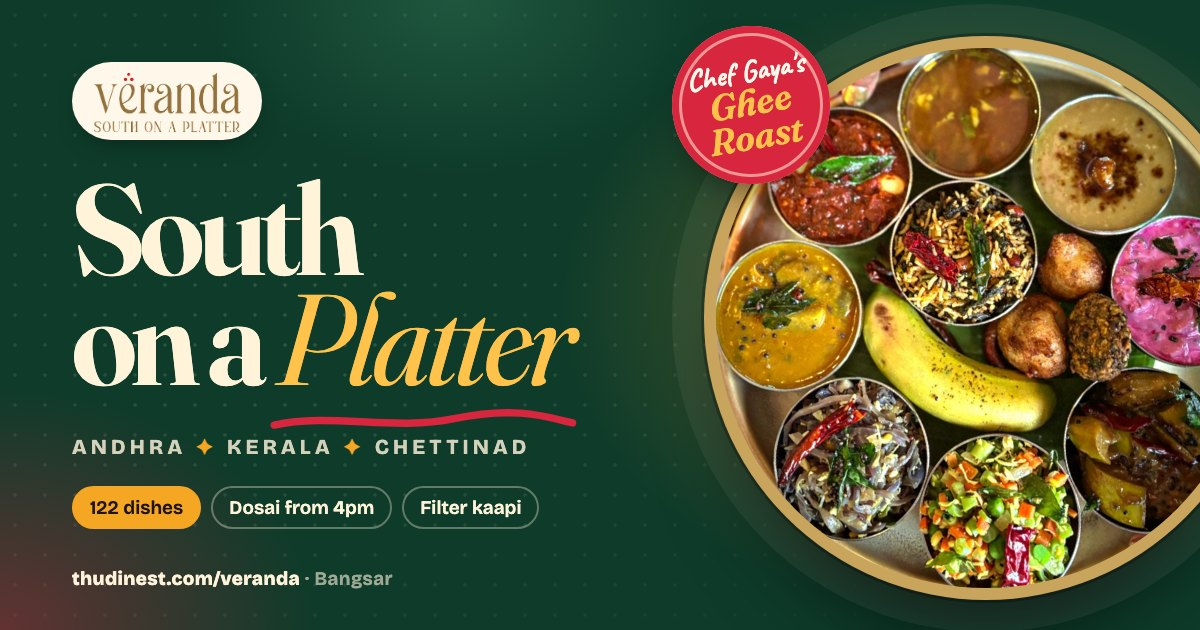
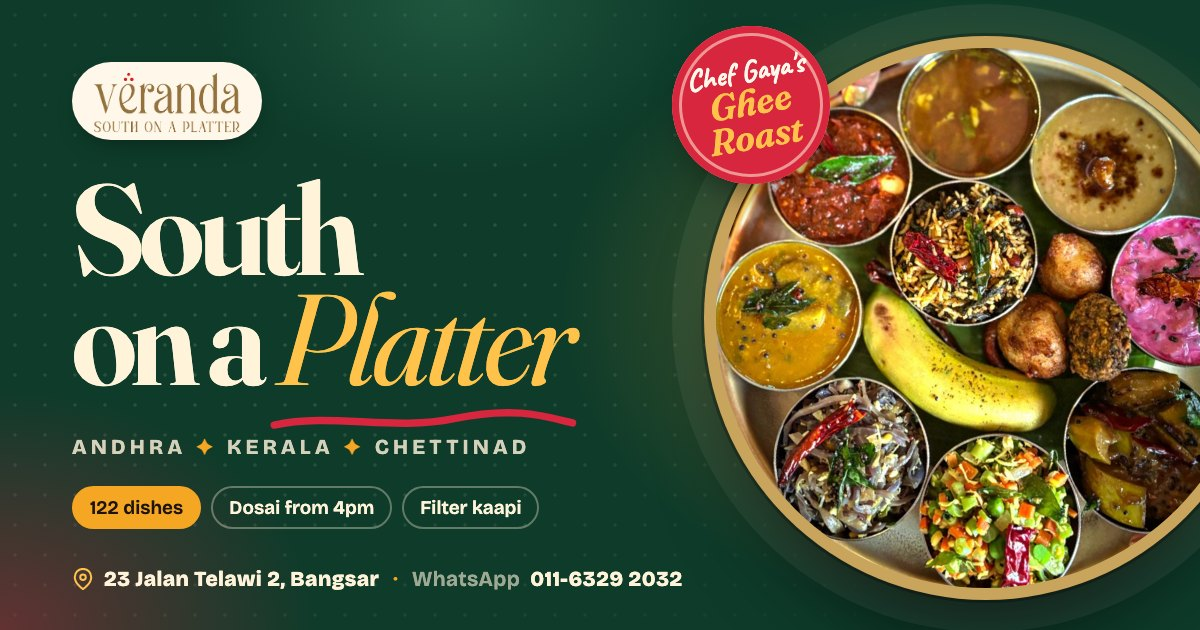
Veranda: add address, hours, WhatsApp and a Visit section with map
- New Visit & book section: address, opening time with a link to live
  hours on Google Maps, WhatsApp 011-6329 2032, Book on WhatsApp and
  Get directions buttons, and an embedded map of the Google listing
- Address, opening time and WhatsApp link under the hero buttons, in
  the footer, and a Visit link in both navs
- Restaurant structured data (address, phone) for search results
- Link-preview text and thumbnail now carry the address and WhatsApp
  number; thumbnail URL versioned (?v=2) so apps refetch it

Changed region(s): [[0.0617, 0.9048, 0.5858, 0.9349]]

diff --git a/veranda/index.html b/veranda/index.html
@@ -4,7 +4,7 @@
 <meta charset="utf-8">
 <meta name="viewport" content="width=device-width, initial-scale=1, viewport-fit=cover">
 <title>Veranda · South on a Platter</title>
-<meta name="description" content="Veranda, Bangsar. Andhra, Kerala and Chettinad cooking on one leaf: chef's specials, wedding style briyani, dosai from 4pm, filter kaapi and the full menu.">
+<meta name="description" content="Veranda, 23 Jalan Telawi 2, Bangsar. Andhra, Kerala and Chettinad cooking on one leaf: chef's specials, wedding style briyani, dosai from 4pm, filter kaapi and the full menu. WhatsApp 011-6329 2032.">
 <meta name="theme-color" content="#0E3B2A">
 <link rel="canonical" href="https://thudinest.com/veranda/">
 
@@ -12,18 +12,43 @@
 <meta property="og:type" content="website">
 <meta property="og:site_name" content="Veranda">
 <meta property="og:title" content="Veranda · South on a Platter">
-<meta property="og:description" content="Andhra, Kerala and Chettinad cooking in Bangsar. Chef's specials, wedding style briyani, dosai from 4pm, filter kaapi and the full 122-dish menu.">
+<meta property="og:description" content="Andhra, Kerala and Chettinad cooking at 23 Jalan Telawi 2, Bangsar. Chef's specials, wedding style briyani, dosai from 4pm and the full 122-dish menu. WhatsApp 011-6329 2032 to book.">
 <meta property="og:url" content="https://thudinest.com/veranda/">
-<meta property="og:image" content="https://thudinest.com/veranda/og-image.jpg">
+<meta property="og:image" content="https://thudinest.com/veranda/og-image.jpg?v=2">
 <meta property="og:image:type" content="image/jpeg">
 <meta property="og:image:width" content="1200">
 <meta property="og:image:height" content="630">
 <meta property="og:image:alt" content="Veranda, South on a Platter: a round South Indian thali on a deep green background">
 <meta name="twitter:card" content="summary_large_image">
 <meta name="twitter:title" content="Veranda · South on a Platter">
-<meta name="twitter:description" content="Andhra, Kerala and Chettinad cooking in Bangsar. Chef's specials, wedding style briyani, dosai from 4pm and filter kaapi.">
-<meta name="twitter:image" content="https://thudinest.com/veranda/og-image.jpg">
+<meta name="twitter:description" content="Andhra, Kerala and Chettinad cooking at 23 Jalan Telawi 2, Bangsar. Chef's specials, wedding style briyani, dosai from 4pm. WhatsApp 011-6329 2032.">
+<meta name="twitter:image" content="https://thudinest.com/veranda/og-image.jpg?v=2">
 <meta name="twitter:image:alt" content="Veranda, South on a Platter: a round South Indian thali on a deep green background">
+
+<!-- lets Google show the address and phone number for this page -->
+<script type="application/ld+json">
+{
+  "@context": "https://schema.org",
+  "@type": "Restaurant",
+  "name": "Veranda",
+  "alternateName": "Veranda, South on a Platter",
+  "url": "https://thudinest.com/veranda/",
+  "image": "https://thudinest.com/veranda/og-image.jpg?v=2",
+  "servesCuisine": ["South Indian", "Andhra", "Kerala", "Chettinad"],
+  "telephone": "+60 11-6329 2032",
+  "acceptsReservations": true,
+  "hasMenu": "https://thudinest.com/veranda/#menu",
+  "address": {
+    "@type": "PostalAddress",
+    "streetAddress": "23 (Ground Floor), Jalan Telawi 2, Bangsar",
+    "postalCode": "59100",
+    "addressLocality": "Kuala Lumpur",
+    "addressRegion": "Wilayah Persekutuan Kuala Lumpur",
+    "addressCountry": "MY"
+  },
+  "sameAs": ["https://www.instagram.com/veranda.bangsar/"]
+}
+</script>
 
 <link rel="icon" type="image/png" href="icon.png">
 <link rel="apple-touch-icon" href="apple-touch-icon.png">
@@ -645,6 +670,41 @@ a{color:inherit}
 .page .no{font-family:var(--f-display); color:var(--chili); margin-right:4px}
 .page .ss{font-size:12.5px; color:var(--ink-3); line-height:1.3; display:block; margin-top:2px}
 
+/* ---------- visit ---------- */
+.sunny{background:var(--turmeric); color:var(--ink); position:relative; isolation:isolate; overflow:hidden}
+.sunny::before{
+  content:""; position:absolute; inset:0; z-index:-1; pointer-events:none;
+  background:radial-gradient(45% 60% at 100% 0%,rgba(255,122,26,.55),transparent 70%),radial-gradient(40% 55% at 0% 100%,rgba(255,215,120,.9),transparent 70%);
+}
+.sunny .kicker,.sunny .h2 em{color:var(--chili-700)}
+.visit-grid{display:grid; grid-template-columns:1fr 1.05fr; gap:clamp(36px,6vw,80px); align-items:center}
+.info{list-style:none; margin:34px 0 0; padding:0; display:grid; gap:12px}
+.info li{
+  display:flex; gap:16px; align-items:flex-start; padding:18px 20px; border-radius:20px;
+  background:rgba(255,248,234,.72); border:1px solid rgba(29,20,13,.08); transition:transform .45s var(--spring), background .3s;
+}
+.info li:hover{transform:translateX(6px); background:var(--cream)}
+.info .ic{flex:none; width:44px; height:44px; border-radius:50%; background:var(--green-800); color:var(--turmeric-2); display:grid; place-items:center}
+.info .ic svg{width:20px; height:20px; fill:none; stroke:currentColor; stroke-width:2; stroke-linecap:round; stroke-linejoin:round}
+.info .lbl{display:block; font-size:12px; letter-spacing:.18em; text-transform:uppercase; font-weight:800; color:var(--chili-700); margin:2px 0 4px}
+.info p{font-size:16.5px; line-height:1.45; font-weight:550}
+.info a{font-weight:750; text-decoration:underline; text-decoration-color:var(--chili); text-decoration-thickness:2px; text-underline-offset:3px}
+.info a:hover{color:var(--chili-700)}
+.info small{display:block; color:var(--ink-2); font-size:13.5px; font-weight:450; margin-top:4px}
+.visit-cta{animation:none}
+.btn-wa{--bg:#128C4B; --fg:#fff; --hover:#0B6E3A}
+.map{
+  position:relative; aspect-ratio:4/3.3; border-radius:28px; overflow:hidden; border:10px solid var(--cream); background:var(--cream-2);
+  box-shadow:0 40px 70px -34px rgba(29,20,13,.6); rotate:1.2deg; transition:rotate .6s var(--spring);
+}
+.map:hover{rotate:0deg}
+.map iframe{position:absolute; inset:0; width:100%; height:100%; border:0}
+.hero-visit{display:flex; flex-wrap:wrap; align-items:center; gap:10px 22px; margin-top:24px; font-size:15px; color:var(--on-dark-2); animation:fadeUp 1s .58s var(--ease) both}
+.hero-visit a,.hero-visit span{display:inline-flex; align-items:center; gap:8px}
+.hero-visit a{color:var(--on-dark); font-weight:600; text-decoration:none; border-bottom:1.5px solid rgba(255,194,75,.45); padding-bottom:1px; transition:color .25s, border-color .25s}
+.hero-visit a:hover{color:var(--turmeric-2); border-color:var(--turmeric-2)}
+.hero-visit svg{width:17px; height:17px; flex:none; fill:none; stroke:var(--turmeric-2); stroke-width:2; stroke-linecap:round; stroke-linejoin:round}
+
 /* ---------- footer ---------- */
 footer{background:var(--green-950); color:var(--on-dark-2); position:relative; overflow:hidden; isolation:isolate; padding:clamp(80px,10vw,130px) 0 120px}
 footer::before{content:""; position:absolute; inset:0; z-index:-1; background:radial-gradient(50% 60% at 50% 0%,rgba(245,166,35,.18),transparent 70%)}
@@ -661,6 +721,8 @@ footer .brand{margin-bottom:16px}
 .legend .mark.veg{color:#56C27F} .legend .mark.sea{color:#6FB2EE} .legend .mark.meat{color:#FF6B7D}
 .colophon{margin-top:44px; padding-top:20px; border-top:1px solid var(--line-dark); font-size:13px; color:var(--on-dark-3); max-width:80ch}
 footer .ig{color:var(--on-dark)}
+.faddr{font-style:normal; font-size:14.5px; line-height:1.6; margin:12px 0 0; color:var(--on-dark)}
+.faddr a{color:var(--turmeric-2); font-weight:650; text-underline-offset:3px}
 
 /* ---------- leaf: floating tab, drawer, toast ---------- */
 .leaftab{
@@ -766,6 +828,8 @@ footer .ig{color:var(--on-dark)}
   .stamp{left:-3%; width:100px}
   .mortar{right:-3%}
   .team{grid-template-columns:1fr}
+  .visit-grid{grid-template-columns:1fr}
+  .map{aspect-ratio:4/3.4; rotate:0deg}
   .team .ph{min-height:0; aspect-ratio:16/10}
   .dishes{grid-template-columns:1fr}
   .bento{grid-template-columns:repeat(2,1fr)}
@@ -806,7 +870,7 @@ footer .ig{color:var(--on-dark)}
   /* touch screens keep :hover after a tap, which left cards lifted and tilted */
   .rcard:hover,.rcard:nth-child(2):hover,.scard:hover,.meal:hover,.reel:hover,.reel:nth-child(even):hover,
   .sip:nth-child(odd):hover,.sip:nth-child(even):hover,.heir:nth-child(odd):hover,.heir:nth-child(even):hover,
-  .facts li:hover,.plate:hover,.page:nth-child(odd):hover .fr,.page:nth-child(even):hover .fr{transform:none}
+  .facts li:hover,.plate:hover,.page:nth-child(odd):hover .fr,.page:nth-child(even):hover .fr,.info li:hover{transform:none}
   .rcard:hover img,.scard:hover .media img,.meal:hover .media img,.sip:hover img,.heir:hover img,.tile:hover img{transform:none}
   .hover-only{display:none}
   .tile .tc{opacity:1; translate:none}
@@ -835,6 +899,7 @@ footer .ig{color:var(--on-dark)}
       <a href="#menu">Menu</a>
       <a href="#story">Story</a>
       <a href="#gallery">Gallery</a>
+      <a href="#visit">Visit</a>
     </nav>
     <button class="btn btn-sm leaf-btn" type="button" data-open-leaf>Your leaf <span class="n" data-leaf-count>0</span></button>
     <button class="burger" type="button" id="burger" aria-label="Open navigation" aria-expanded="false" aria-controls="mnav"><span></span></button>
@@ -850,6 +915,7 @@ footer .ig{color:var(--on-dark)}
   <a href="#story" style="transition-delay:.24s">Story</a>
   <a href="#gallery" style="transition-delay:.28s">Gallery</a>
   <a href="#book" style="transition-delay:.32s">The book</a>
+  <a href="#visit" style="transition-delay:.36s">Visit &amp; book</a>
 </nav>
 
 <main>
@@ -867,6 +933,11 @@ footer .ig{color:var(--on-dark)}
         <a class="btn" href="#menu">Explore the menu <span class="arr" aria-hidden="true">&rarr;</span></a>
         <a class="btn btn-ghost" href="#reels"><svg width="14" height="14" viewBox="0 0 24 24" aria-hidden="true"><path d="M7 4l13 8-13 8z" fill="currentColor"/></svg> Watch the reels</a>
       </div>
+      <p class="hero-visit">
+        <a href="#visit"><svg viewBox="0 0 24 24" aria-hidden="true"><path d="M21 10c0 7-9 13-9 13s-9-6-9-13a9 9 0 0118 0z"/><circle cx="12" cy="10" r="3"/></svg>23 Jalan Telawi 2, Bangsar</a>
+        <span><svg viewBox="0 0 24 24" aria-hidden="true"><circle cx="12" cy="12" r="10"/><path d="M12 6v6l4 2"/></svg>Opens 11:30 am</span>
+        <a href="https://wa.me/601163292032?text=Hi%20Veranda%2C%20I%27d%20like%20to%20book%20a%20table." target="_blank" rel="noopener"><svg viewBox="0 0 24 24" aria-hidden="true"><path d="M21 11.5a8.4 8.4 0 01-.9 3.8 8.5 8.5 0 01-7.6 4.7 8.4 8.4 0 01-3.8-.9L3 21l1.9-5.7a8.4 8.4 0 01-.9-3.8 8.5 8.5 0 014.7-7.6 8.4 8.4 0 013.8-.9h.5a8.5 8.5 0 018 8v.5z"/></svg>WhatsApp to book</a>
+      </p>
       <dl class="stats">
         <div><dt id="statDishes">122</dt><dd>dishes on one menu</dd></div>
         <div><dt>14</dt><dd>Chettinad herbs &amp; spices in one masala</dd></div>
@@ -1106,6 +1177,47 @@ footer .ig{color:var(--on-dark)}
     <div class="book" id="bookGrid"></div>
   </div>
 </section>
+
+<!-- ============ VISIT ============ -->
+<section class="sec sunny" id="visit">
+  <div class="wrap visit-grid">
+    <div class="visit-copy">
+      <div data-reveal>
+        <span class="kicker">Visit &amp; book</span>
+        <h2 class="h2">Find us on<br><em>Jalan Telawi.</em></h2>
+      </div>
+      <ul class="info">
+        <li data-reveal style="--d:.06s">
+          <span class="ic" aria-hidden="true"><svg viewBox="0 0 24 24"><path d="M21 10c0 7-9 13-9 13s-9-6-9-13a9 9 0 0118 0z"/><circle cx="12" cy="10" r="3"/></svg></span>
+          <div><span class="lbl">Address</span>
+          <p>23 (Ground Floor), Jalan Telawi 2<br>Bangsar, 59100 Kuala Lumpur<br>Wilayah Persekutuan Kuala Lumpur</p></div>
+        </li>
+        <li data-reveal style="--d:.12s">
+          <span class="ic" aria-hidden="true"><svg viewBox="0 0 24 24"><circle cx="12" cy="12" r="10"/><path d="M12 6v6l4 2"/></svg></span>
+          <div><span class="lbl">Hours</span>
+          <p>Opens 11:30 am &middot; <a href="https://www.google.com/maps/search/?api=1&amp;query=Veranda%20South%20on%20a%20Platter%2C%20Jalan%20Telawi%202%2C%20Bangsar" target="_blank" rel="noopener">today's hours on Google Maps</a>
+            <small>Dosai from 4pm every day. The thali is weekday lunch only.</small></p></div>
+        </li>
+        <li data-reveal style="--d:.18s">
+          <span class="ic" aria-hidden="true"><svg viewBox="0 0 24 24"><path d="M21 11.5a8.4 8.4 0 01-.9 3.8 8.5 8.5 0 01-7.6 4.7 8.4 8.4 0 01-3.8-.9L3 21l1.9-5.7a8.4 8.4 0 01-.9-3.8 8.5 8.5 0 014.7-7.6 8.4 8.4 0 013.8-.9h.5a8.5 8.5 0 018 8v.5z"/></svg></span>
+          <div><span class="lbl">WhatsApp</span>
+          <p><a href="https://wa.me/601163292032" target="_blank" rel="noopener">011-6329 2032</a>
+            <small>Message to book a table or ask what's on today.</small></p></div>
+        </li>
+      </ul>
+      <div class="cta visit-cta" data-reveal style="--d:.24s">
+        <a class="btn btn-wa" href="https://wa.me/601163292032?text=Hi%20Veranda%2C%20I%27d%20like%20to%20book%20a%20table." target="_blank" rel="noopener">
+          <svg width="18" height="18" viewBox="0 0 24 24" aria-hidden="true" fill="none" stroke="currentColor" stroke-width="2.2" stroke-linecap="round" stroke-linejoin="round"><path d="M21 11.5a8.4 8.4 0 01-.9 3.8 8.5 8.5 0 01-7.6 4.7 8.4 8.4 0 01-3.8-.9L3 21l1.9-5.7a8.4 8.4 0 01-.9-3.8 8.5 8.5 0 014.7-7.6 8.4 8.4 0 013.8-.9h.5a8.5 8.5 0 018 8v.5z"/></svg>
+          Book on WhatsApp</a>
+        <a class="btn btn-ghost on-light" href="https://www.google.com/maps/dir/?api=1&amp;destination=Veranda%20South%20on%20a%20Platter%2C%20Jalan%20Telawi%202%2C%20Bangsar" target="_blank" rel="noopener">Get directions <span class="arr" aria-hidden="true">&nearr;</span></a>
+      </div>
+    </div>
+    <div class="map" data-reveal style="--d:.1s">
+      <iframe src="https://maps.google.com/maps?q=Veranda%20South%20on%20a%20Platter%2C%20Jalan%20Telawi%202%2C%20Bangsar&amp;z=17&amp;output=embed"
+        title="Map showing Veranda at 23 Jalan Telawi 2, Bangsar" loading="lazy" referrerpolicy="no-referrer-when-downgrade" allowfullscreen></iframe>
+    </div>
+  </div>
+</section>
 </main>
 
 <!-- ============ FOOTER ============ -->
@@ -1116,7 +1228,12 @@ footer .ig{color:var(--on-dark)}
     <div class="fg">
       <div>
         <a class="brand" href="#top" aria-label="Veranda, back to top"><span class="logo"><img src="logo.png" alt="Veranda, South on a Platter" loading="lazy"></span></a>
-        <p>South Indian cooking from Andhra Pradesh, Kerala and Chettinad, in Bangsar.</p>
+        <p>South Indian cooking from Andhra Pradesh, Kerala and Chettinad.</p>
+        <address class="faddr">
+          23 (Ground Floor), Jalan Telawi 2,<br>Bangsar, 59100 Kuala Lumpur<br>
+          WhatsApp <a href="https://wa.me/601163292032" target="_blank" rel="noopener">011-6329 2032</a><br>
+          Opens 11:30 am
+        </address>
         <p style="margin-top:14px"><a class="ig" href="https://www.instagram.com/veranda.bangsar/" target="_blank" rel="noopener">Follow @veranda.bangsar <span aria-hidden="true">&nearr;</span></a></p>
       </div>
       <div>
@@ -1955,7 +2072,7 @@ const nio = new IntersectionObserver(es => es.forEach(e => {
   if(!e.isIntersecting) return;
   navLinks.forEach(a => a.classList.toggle("on", a.getAttribute("href")==="#"+e.target.id));
 }), {rootMargin:"-45% 0px -50% 0px"});
-["top","regions","specials","reels","story","sips","menu","gallery","book"].forEach(id => nio.observe(document.getElementById(id)));
+["top","regions","specials","reels","story","sips","menu","gallery","book","visit"].forEach(id => nio.observe(document.getElementById(id)));
 const jumpLinks = $$("#jump a");
 const jio = new IntersectionObserver(es => es.forEach(e => {
   if(!e.isIntersecting) return;
